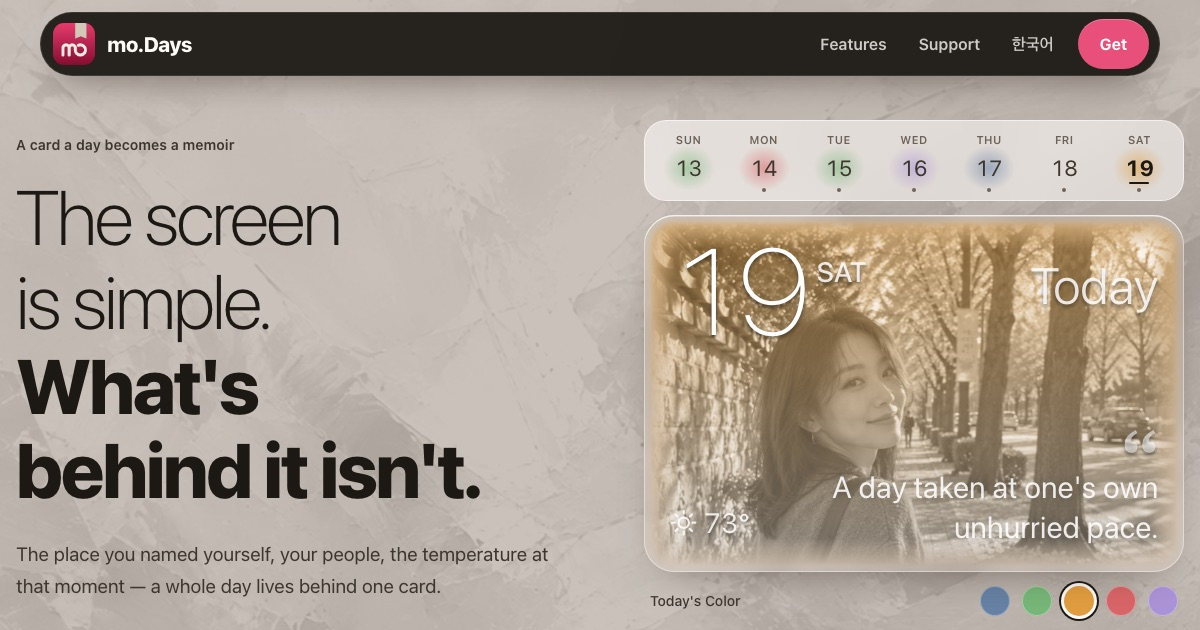
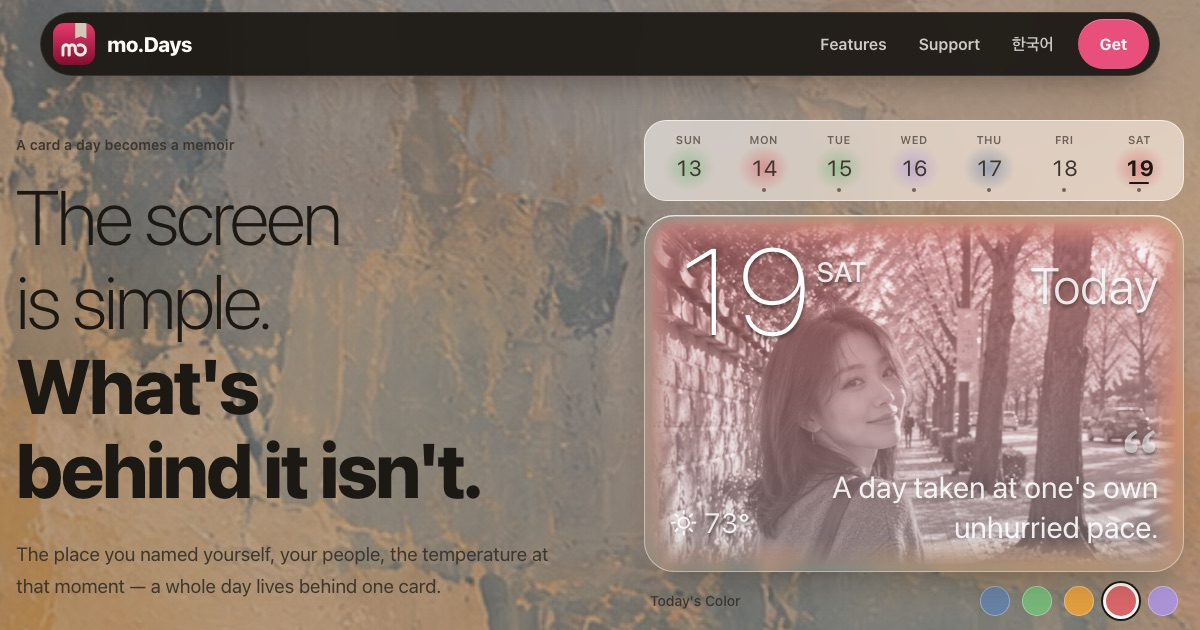
히어로는 원색, 하루 카드는 같은 그림의 모노톤으로 — 배경 12번, 하루 카드 간격 줄임
히어로와 하루 카드가 그림 한 장(moBackground_012 넓은 판, 1.6배·왼쪽 위 — 카드 뒤가 차분해 오늘의 색이 섞이지 않는 자리)을 이어 쓴다. 히어로는 앱의 «모노톤 끔»(대비 0.48), 하루 카드는 그 그림을 뒤 비춤 필터로 흑백 + 웜 그레이 덮개 0.55 — 앱의 «모노톤 켬»과 같은 처리라 경계에서 색만 빠진다. 다크는 베일 0.58 · 0.65.
하루 카드 섹션 간격을 줄였다 — 시작 150 → 96px, 제목 묶음 18 → 14, 카드 줄 위 56 → 32, 카드 줄 아래·소제목 사이 한 단씩, 끝 150 → 112.
맺음 띠와 지원·처리방침 머리 띠도 12번(모노톤). 옛 배경 bg-wide.jpg는 걷고, 공유 미리보기 그림을 새 히어로로 다시 만들었다.

realized by claude

diff --git a/index.html b/index.html
@@ -43,6 +43,9 @@
   --rose-deep: #B12B55;   /* brandDeep */
   --rose-soft: #FFE0EA;   /* brandSoft */
   --veil: rgba(156, 142, 129, .55);   /* 배경 판 모노톤 덮개 — neutral400 × 0.55 */
+  --veil-color: transparent;           /* 원색 바탕(모노톤 끔) — 라이트는 덮개 없음 */
+  --veil-mono: rgba(156, 142, 129, .55);
+  --mono-filter: grayscale(1) contrast(2.08) brightness(1.045);  /* 원색 바탕의 대비 0.48을 되돌려 모노톤 판과 같은 결로 */
   --glass: rgba(255, 255, 255, .55);
   --glass-line: rgba(255, 255, 255, .6);
   --night: #1C1814;
@@ -70,7 +73,7 @@
     --bg: #23211E; --bg-alt: #2C2A26; --surface: #393632; --subtle: #34312D; --line: #4B4742;
     --fg1: #E3DDD7; --fg2: #C7BFB8; --fg3: #A49D96; --fg4: #867F78;
     --rose: #CC5470; --rose-deep: #E8738C; --rose-soft: #452934;
-    --veil: rgba(23, 22, 20, .65); --glass: rgba(57, 54, 50, .55); --glass-line: rgba(255, 255, 255, .14);
+    --veil: rgba(23, 22, 20, .65); --veil-color: rgba(23, 22, 20, .58); --veil-mono: rgba(23, 22, 20, .17); --mono-filter: grayscale(1) contrast(1.5); --glass: rgba(57, 54, 50, .55); --glass-line: rgba(255, 255, 255, .14);
     --night: #141311; --night-fg: #E3DDD7; --night-fg2: #867F78; --shadow: 0, 0, 0;
     --mark-a: #D45B78; --mark-b: #9A3451; --mark-glow: rgba(0, 0, 0, .55);
     --nav-bg: rgba(242, 235, 227, .95); --nav-fg: #1C1814; --nav-fg2: rgba(28, 24, 20, .72); --nav-line: rgba(0, 0, 0, .08); --nav-hover: rgba(0, 0, 0, .06);
@@ -81,7 +84,7 @@
   --bg: #23211E; --bg-alt: #2C2A26; --surface: #393632; --subtle: #34312D; --line: #4B4742;
   --fg1: #E3DDD7; --fg2: #C7BFB8; --fg3: #A49D96; --fg4: #867F78;
   --rose: #CC5470; --rose-deep: #E8738C; --rose-soft: #452934;
-  --veil: rgba(23, 22, 20, .65); --glass: rgba(57, 54, 50, .55); --glass-line: rgba(255, 255, 255, .14);
+  --veil: rgba(23, 22, 20, .65); --veil-color: rgba(23, 22, 20, .58); --veil-mono: rgba(23, 22, 20, .17); --mono-filter: grayscale(1) contrast(1.5); --glass: rgba(57, 54, 50, .55); --glass-line: rgba(255, 255, 255, .14);
   --night: #141311; --night-fg: #E3DDD7; --night-fg2: #867F78; --shadow: 0, 0, 0;
   --mark-a: #D45B78; --mark-b: #9A3451; --mark-glow: rgba(0, 0, 0, .55);
   --nav-bg: rgba(242, 235, 227, .95); --nav-fg: #1C1814; --nav-fg2: rgba(28, 24, 20, .72); --nav-line: rgba(0, 0, 0, .08); --nav-hover: rgba(0, 0, 0, .06);
@@ -115,10 +118,16 @@ ol, ul { padding: 0; list-style: none; }
 .backdrop { position: relative; isolation: isolate; overflow: hidden; color: var(--fg1); }
 .backdrop::before {
   content: ""; position: absolute; inset: 0; z-index: -2;
-  background: url("/img/bg-wide.jpg") center / cover no-repeat;
+  background: url("/img/bg-wide-12.jpg") center / cover no-repeat;
   filter: grayscale(1) brightness(1.045);
 }
 .backdrop::after { content: ""; position: absolute; inset: 0; z-index: -1; background: var(--veil); }
+/* 원색 — 앱의 «모노톤 끔»(대비 0.48, 덮개 없음 · 다크는 베일 0.58). 그림 자리는 카드 뒤가 차분한 왼쪽 위(1.6배) */
+.backdrop.color::before { filter: contrast(.48); background-position: 15% 20%; background-size: auto 160%; }
+.backdrop.color::after { background: var(--veil-color); }
+/* 모노톤 — 같은 그림을 이어 받아 색만 뺀다(앱의 «모노톤 켬»: 흑백 + 웜 그레이 덮개 0.55) */
+.days.mono { position: relative; isolation: isolate; -webkit-backdrop-filter: var(--mono-filter); backdrop-filter: var(--mono-filter); }
+.days.mono::before { content: ""; position: absolute; inset: 0; z-index: -1; background: var(--veil-mono); }
 
 /* ── 메뉴 막대 — 짙은 먹색 알약이 화면 위에서 무게를 잡는다 */
 .nav {
@@ -269,24 +278,25 @@ ol, ul { padding: 0; list-style: none; }
 .dc-q.m cite { font-size: 3.3cqw; }
 
 /* ── 하루 카드 흐름(F1) */
-.days { padding-block: 24px 120px; }
-.days-head { display: grid; gap: 18px; max-width: 760px; }
+.days { padding-block: clamp(56px, 7vw, 96px) clamp(72px, 8vw, 112px); }
+.days-head { display: grid; gap: 14px; max-width: 760px; }
 .days h2, .feature h2 {
   font-size: clamp(30px, 4.2vw, 50px); line-height: 1.22; letter-spacing: -.035em; font-weight: 700; color: var(--fg1);
   text-wrap: balance;
 }
 .intro { max-width: 34em; font-size: clamp(17px, 1.5vw, 19px); line-height: 1.75; color: var(--fg2); }
 .marquee {
-  margin-top: 56px; overflow: hidden;
+  margin-top: 32px; overflow: hidden;
   -webkit-mask-image: linear-gradient(to right, transparent, #000 5%, #000 95%, transparent);
   mask-image: linear-gradient(to right, transparent, #000 5%, #000 95%, transparent);
 }
 .track { display: flex; gap: 22px; width: max-content; padding-block: 8px 30px; animation: drift 80s linear infinite; }
 .track .daycard { width: clamp(270px, 30vw, 380px); flex: none; }
 .marquee:hover .track { animation-play-state: paused; }
+.days .track { padding-block: 8px 22px; }
 @keyframes drift { to { transform: translateX(calc(-50% - 11px)); } }
-.trio-points { margin-top: 24px; display: grid; gap: 28px; }
-@media (min-width: 820px) { .trio-points { grid-template-columns: repeat(3, minmax(0, 1fr)); gap: 40px; } }
+.trio-points { margin-top: 20px; display: grid; gap: 22px; }
+@media (min-width: 820px) { .trio-points { grid-template-columns: repeat(3, minmax(0, 1fr)); gap: 32px; } }
 .days .point p { color: var(--fg2); }
 
 /* ── 기능 표식 — 아이콘 타일 + 이름 */
@@ -481,7 +491,7 @@ footer .who { margin-left: auto; }
 </div>
 
 <main id="top">
-  <div class="backdrop">
+  <div class="backdrop color">
     <section class="hero" aria-labelledby="hero-title">
       <div class="wrap">
         <div>
@@ -535,7 +545,7 @@ footer .who { margin-left: auto; }
       </div>
     </section>
 
-    <section class="days" id="features" aria-labelledby="f1-title">
+    <section class="days mono" id="features" aria-labelledby="f1-title">
       <div class="wrap"><div class="days-head">
         <div class="mark"><span class="mark-ico" aria-hidden="true"><svg viewBox="0 0 24 24"><rect x="2.8" y="5" width="18.4" height="14" rx="3.2"/><circle cx="7.6" cy="9.4" r="1.5"/><path d="M12.6 13.6h5M14.6 16.1h3"/></svg></span><span class="mark-name">하루 카드</span></div>
         <h2 id="f1-title">사진 한 장, 색 하나, 문장 하나.<br>하루가 그렇게 남습니다.</h2>

diff --git a/en/index.html b/en/index.html
@@ -44,6 +44,9 @@
   --rose-deep: #B12B55;   /* brandDeep */
   --rose-soft: #FFE0EA;   /* brandSoft */
   --veil: rgba(156, 142, 129, .55);   /* 배경 판 모노톤 덮개 — neutral400 × 0.55 */
+  --veil-color: transparent;           /* 원색 바탕(모노톤 끔) — 라이트는 덮개 없음 */
+  --veil-mono: rgba(156, 142, 129, .55);
+  --mono-filter: grayscale(1) contrast(2.08) brightness(1.045);  /* 원색 바탕의 대비 0.48을 되돌려 모노톤 판과 같은 결로 */
   --glass: rgba(255, 255, 255, .55);
   --glass-line: rgba(255, 255, 255, .6);
   --night: #1C1814;
@@ -71,7 +74,7 @@
     --bg: #23211E; --bg-alt: #2C2A26; --surface: #393632; --subtle: #34312D; --line: #4B4742;
     --fg1: #E3DDD7; --fg2: #C7BFB8; --fg3: #A49D96; --fg4: #867F78;
     --rose: #CC5470; --rose-deep: #E8738C; --rose-soft: #452934;
-    --veil: rgba(23, 22, 20, .65); --glass: rgba(57, 54, 50, .55); --glass-line: rgba(255, 255, 255, .14);
+    --veil: rgba(23, 22, 20, .65); --veil-color: rgba(23, 22, 20, .58); --veil-mono: rgba(23, 22, 20, .17); --mono-filter: grayscale(1) contrast(1.5); --glass: rgba(57, 54, 50, .55); --glass-line: rgba(255, 255, 255, .14);
     --night: #141311; --night-fg: #E3DDD7; --night-fg2: #867F78; --shadow: 0, 0, 0;
     --mark-a: #D45B78; --mark-b: #9A3451; --mark-glow: rgba(0, 0, 0, .55);
     --nav-bg: rgba(242, 235, 227, .95); --nav-fg: #1C1814; --nav-fg2: rgba(28, 24, 20, .72); --nav-line: rgba(0, 0, 0, .08); --nav-hover: rgba(0, 0, 0, .06);
@@ -82,7 +85,7 @@
   --bg: #23211E; --bg-alt: #2C2A26; --surface: #393632; --subtle: #34312D; --line: #4B4742;
   --fg1: #E3DDD7; --fg2: #C7BFB8; --fg3: #A49D96; --fg4: #867F78;
   --rose: #CC5470; --rose-deep: #E8738C; --rose-soft: #452934;
-  --veil: rgba(23, 22, 20, .65); --glass: rgba(57, 54, 50, .55); --glass-line: rgba(255, 255, 255, .14);
+  --veil: rgba(23, 22, 20, .65); --veil-color: rgba(23, 22, 20, .58); --veil-mono: rgba(23, 22, 20, .17); --mono-filter: grayscale(1) contrast(1.5); --glass: rgba(57, 54, 50, .55); --glass-line: rgba(255, 255, 255, .14);
   --night: #141311; --night-fg: #E3DDD7; --night-fg2: #867F78; --shadow: 0, 0, 0;
   --mark-a: #D45B78; --mark-b: #9A3451; --mark-glow: rgba(0, 0, 0, .55);
   --nav-bg: rgba(242, 235, 227, .95); --nav-fg: #1C1814; --nav-fg2: rgba(28, 24, 20, .72); --nav-line: rgba(0, 0, 0, .08); --nav-hover: rgba(0, 0, 0, .06);
@@ -116,10 +119,16 @@ ol, ul { padding: 0; list-style: none; }
 .backdrop { position: relative; isolation: isolate; overflow: hidden; color: var(--fg1); }
 .backdrop::before {
   content: ""; position: absolute; inset: 0; z-index: -2;
-  background: url("/img/bg-wide.jpg") center / cover no-repeat;
+  background: url("/img/bg-wide-12.jpg") center / cover no-repeat;
   filter: grayscale(1) brightness(1.045);
 }
 .backdrop::after { content: ""; position: absolute; inset: 0; z-index: -1; background: var(--veil); }
+/* 원색 — 앱의 «모노톤 끔»(대비 0.48, 덮개 없음 · 다크는 베일 0.58). 그림 자리는 카드 뒤가 차분한 왼쪽 위(1.6배) */
+.backdrop.color::before { filter: contrast(.48); background-position: 15% 20%; background-size: auto 160%; }
+.backdrop.color::after { background: var(--veil-color); }
+/* 모노톤 — 같은 그림을 이어 받아 색만 뺀다(앱의 «모노톤 켬»: 흑백 + 웜 그레이 덮개 0.55) */
+.days.mono { position: relative; isolation: isolate; -webkit-backdrop-filter: var(--mono-filter); backdrop-filter: var(--mono-filter); }
+.days.mono::before { content: ""; position: absolute; inset: 0; z-index: -1; background: var(--veil-mono); }
 
 /* ── 메뉴 막대 — 짙은 먹색 알약이 화면 위에서 무게를 잡는다 */
 .nav {
@@ -270,24 +279,25 @@ ol, ul { padding: 0; list-style: none; }
 .dc-q.m cite { font-size: 3.3cqw; }
 
 /* ── 하루 카드 흐름(F1) */
-.days { padding-block: 24px 120px; }
-.days-head { display: grid; gap: 18px; max-width: 760px; }
+.days { padding-block: clamp(56px, 7vw, 96px) clamp(72px, 8vw, 112px); }
+.days-head { display: grid; gap: 14px; max-width: 760px; }
 .days h2, .feature h2 {
   font-size: clamp(30px, 4.2vw, 50px); line-height: 1.22; letter-spacing: -.035em; font-weight: 700; color: var(--fg1);
   text-wrap: balance;
 }
 .intro { max-width: 34em; font-size: clamp(17px, 1.5vw, 19px); line-height: 1.75; color: var(--fg2); }
 .marquee {
-  margin-top: 56px; overflow: hidden;
+  margin-top: 32px; overflow: hidden;
   -webkit-mask-image: linear-gradient(to right, transparent, #000 5%, #000 95%, transparent);
   mask-image: linear-gradient(to right, transparent, #000 5%, #000 95%, transparent);
 }
 .track { display: flex; gap: 22px; width: max-content; padding-block: 8px 30px; animation: drift 80s linear infinite; }
 .track .daycard { width: clamp(270px, 30vw, 380px); flex: none; }
 .marquee:hover .track { animation-play-state: paused; }
+.days .track { padding-block: 8px 22px; }
 @keyframes drift { to { transform: translateX(calc(-50% - 11px)); } }
-.trio-points { margin-top: 24px; display: grid; gap: 28px; }
-@media (min-width: 820px) { .trio-points { grid-template-columns: repeat(3, minmax(0, 1fr)); gap: 40px; } }
+.trio-points { margin-top: 20px; display: grid; gap: 22px; }
+@media (min-width: 820px) { .trio-points { grid-template-columns: repeat(3, minmax(0, 1fr)); gap: 32px; } }
 .days .point p { color: var(--fg2); }
 
 /* ── 기능 표식 — 아이콘 타일 + 이름 */
@@ -491,7 +501,7 @@ body { word-break: normal; }
 </div>
 
 <main id="top">
-  <div class="backdrop">
+  <div class="backdrop color">
     <section class="hero" aria-labelledby="hero-title">
       <div class="wrap">
         <div>
@@ -545,7 +555,7 @@ body { word-break: normal; }
       </div>
     </section>
 
-    <section class="days" id="features" aria-labelledby="f1-title">
+    <section class="days mono" id="features" aria-labelledby="f1-title">
       <div class="wrap"><div class="days-head">
         <div class="mark"><span class="mark-ico" aria-hidden="true"><svg viewBox="0 0 24 24"><rect x="2.8" y="5" width="18.4" height="14" rx="3.2"/><circle cx="7.6" cy="9.4" r="1.5"/><path d="M12.6 13.6h5M14.6 16.1h3"/></svg></span><span class="mark-name">Day Card</span></div>
         <h2 id="f1-title">One photo, one color, one line.<br>That's how a day stays.</h2>

diff --git a/assets/doc.css b/assets/doc.css
@@ -87,7 +87,7 @@ ol, ul { padding: 0; list-style: none; }
 .backdrop { position: relative; isolation: isolate; overflow: hidden; color: var(--fg1); }
 .backdrop::before {
   content: ""; position: absolute; inset: 0; z-index: -2;
-  background: url("/img/bg-wide.jpg") center / cover no-repeat;
+  background: url("/img/bg-wide-12.jpg") center / cover no-repeat;
   filter: grayscale(1) brightness(1.045);
 }
 .backdrop::after { content: ""; position: absolute; inset: 0; z-index: -1; background: var(--veil); }
